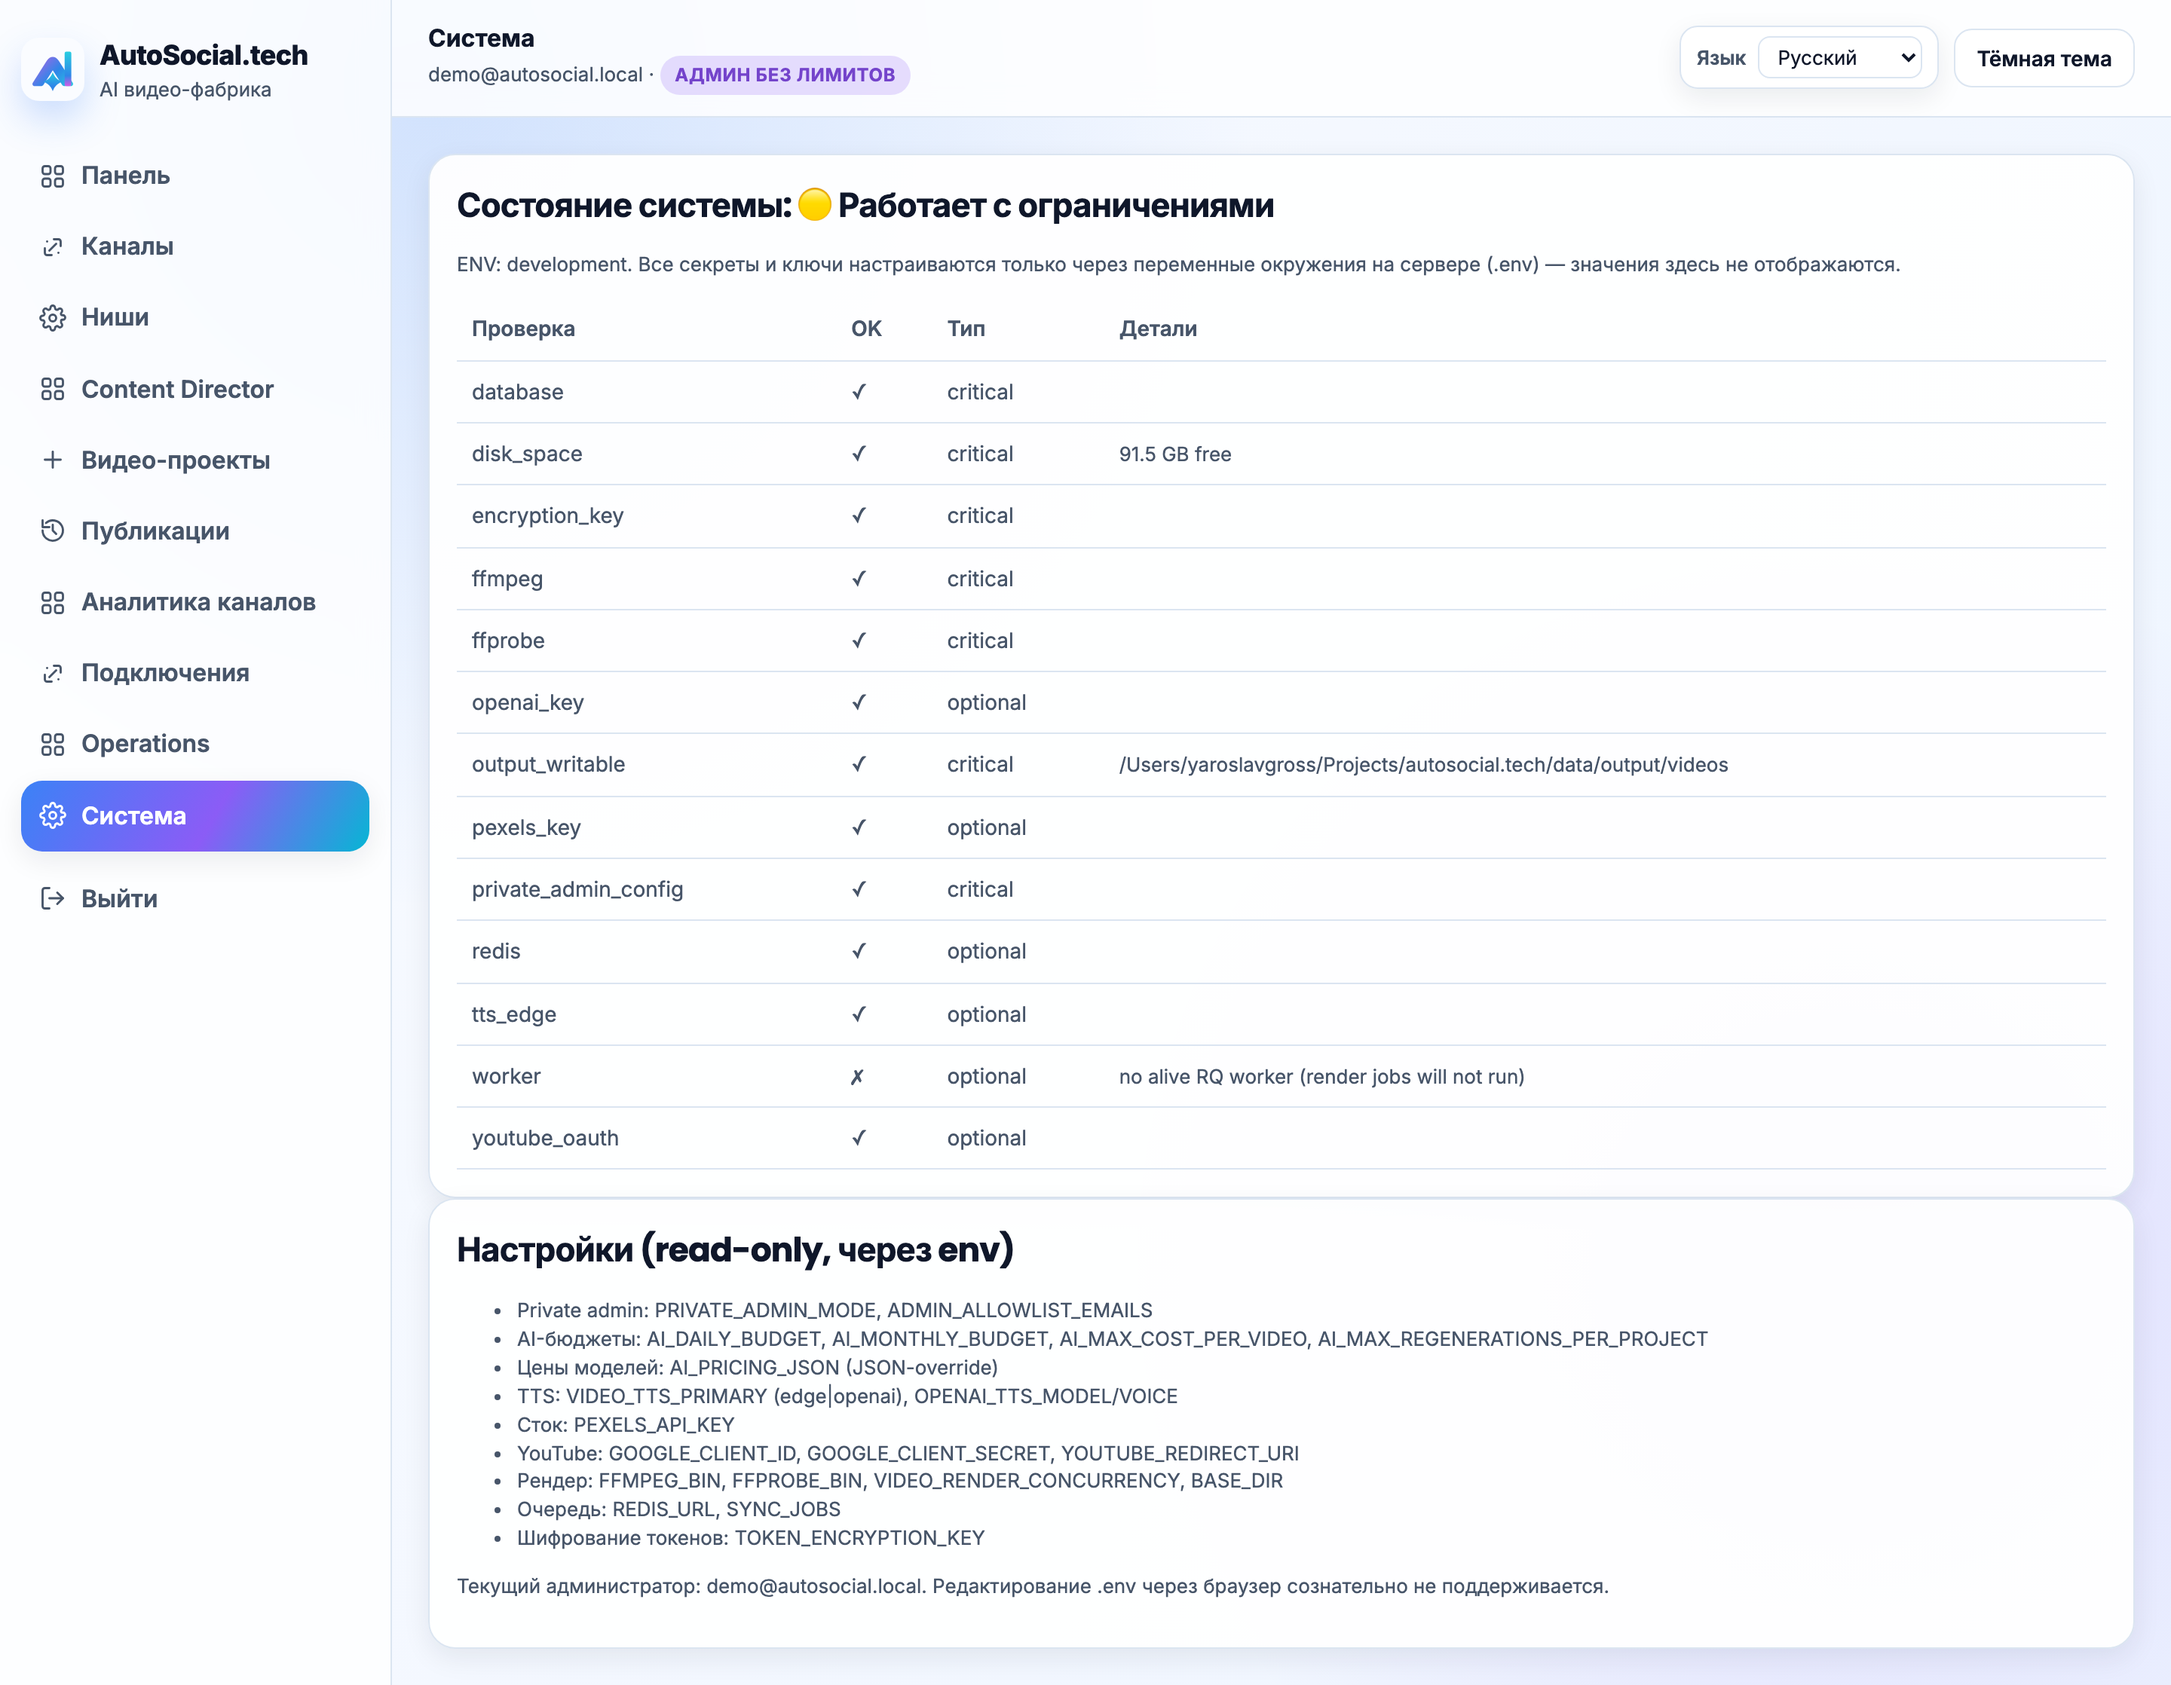
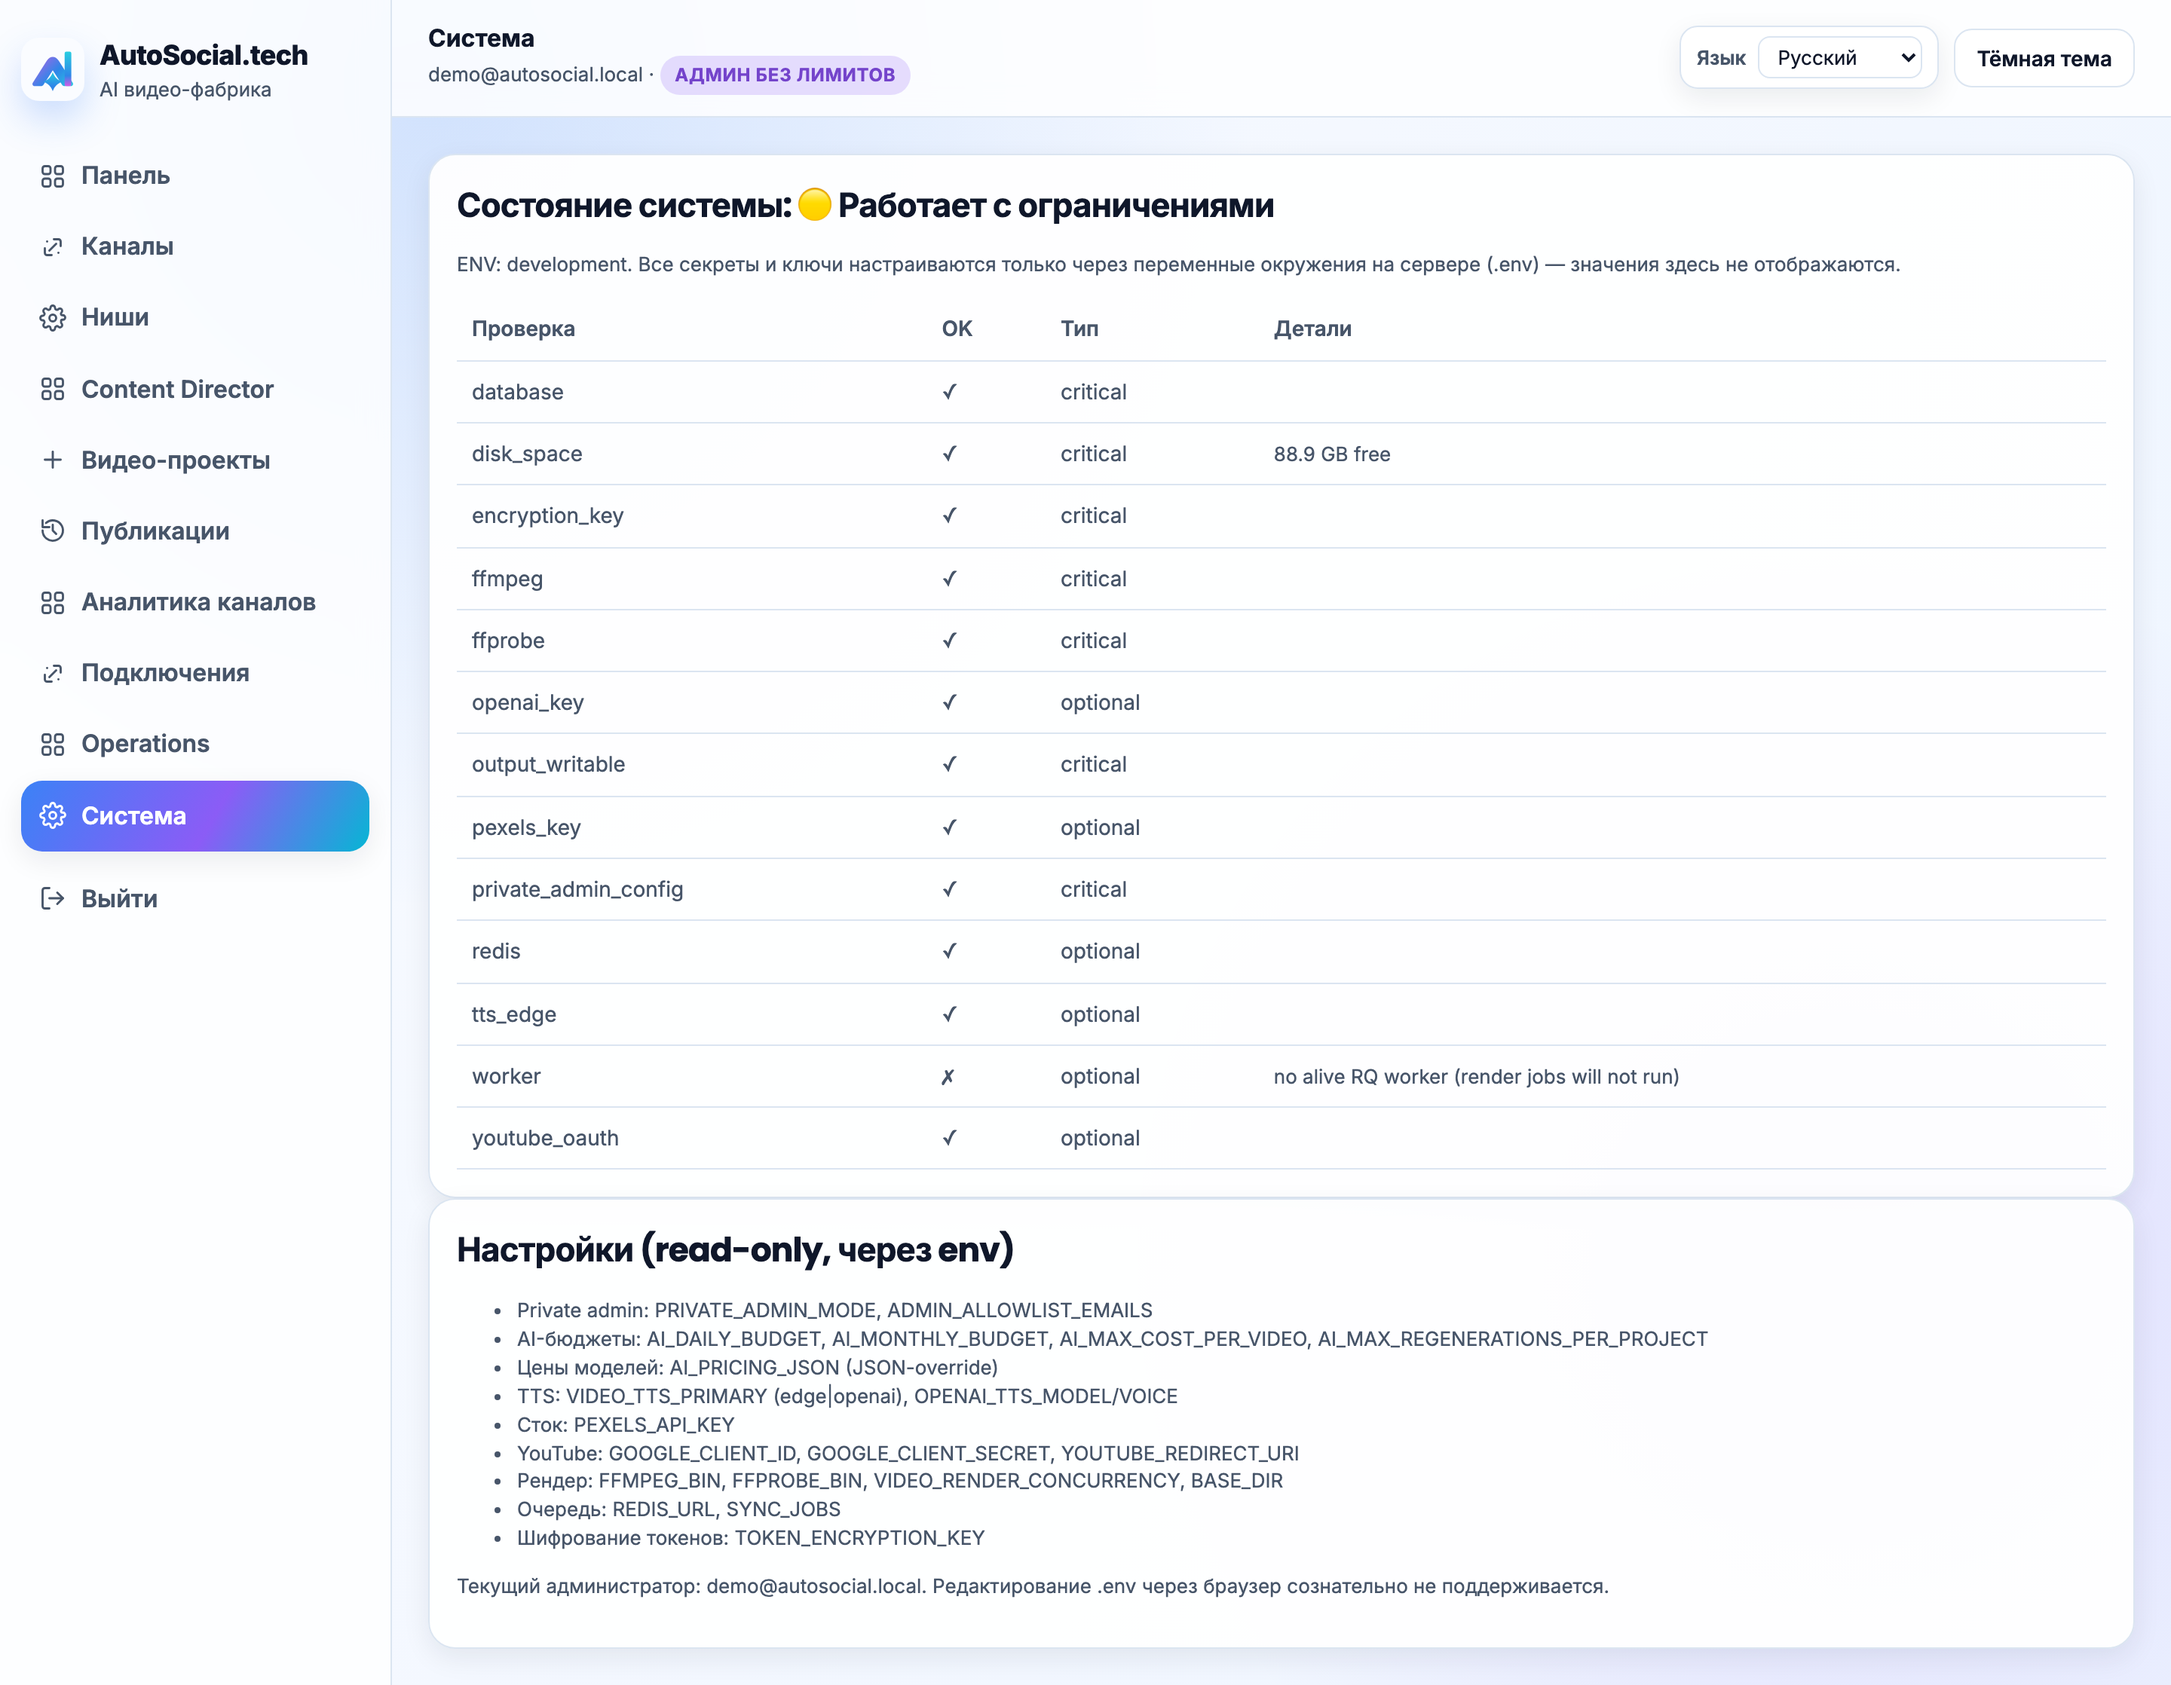
fix(security): stop leaking absolute server path on System page
The output_writable readiness check unconditionally included str(settings.OUTPUT_VIDEOS_DIR) as its 'detail', so the /factory-settings (Система) page showed the real host filesystem path to any admin viewer — caught while re-verifying the demo screenshots for leaked internal paths. Now the path is only surfaced when the check actually fails (troubleshooting info), matching every other check on that page (redis, worker, disk_space all only show detail on failure). Re-captured system-health-desktop.png; full suite re-run clean (267 passed, 0 failed).

diff --git a/factory_dashboard_api.py b/factory_dashboard_api.py
@@ -314,8 +314,12 @@ def readiness():
 
         _check("ffmpeg", bool(_bin_version(settings.FFMPEG_BIN)), True)
         _check("ffprobe", bool(_bin_version(settings.FFPROBE_BIN)), True)
-        _check("output_writable", os.access(settings.OUTPUT_VIDEOS_DIR, os.W_OK), True,
-               str(settings.OUTPUT_VIDEOS_DIR))
+        _writable = os.access(settings.OUTPUT_VIDEOS_DIR, os.W_OK)
+        # Only surface the absolute server path when there's actually a problem to
+        # troubleshoot — showing it unconditionally leaks the host filesystem layout
+        # to anyone with admin/System access for no operational benefit.
+        _check("output_writable", _writable, True,
+               None if _writable else f"not writable: {settings.OUTPUT_VIDEOS_DIR}")
         free = _disk_free_gb(settings.OUTPUT_DIR)
         _check("disk_space", free is not None and free > 1.0, True, f"{free} GB free" if free is not None else None)
 
